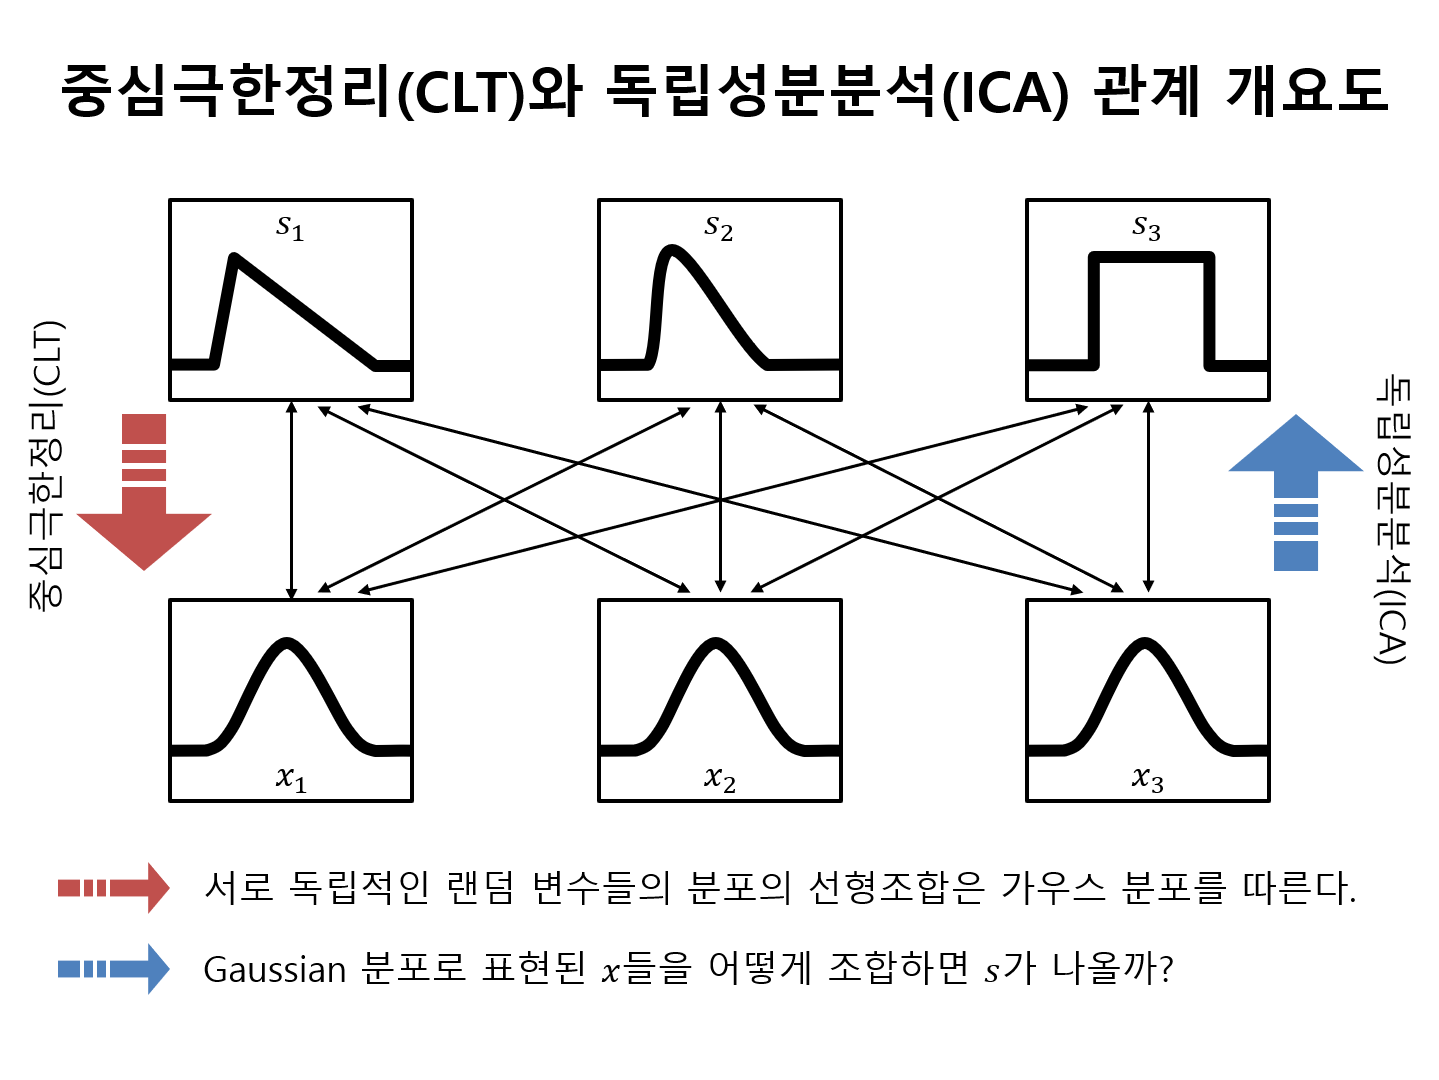
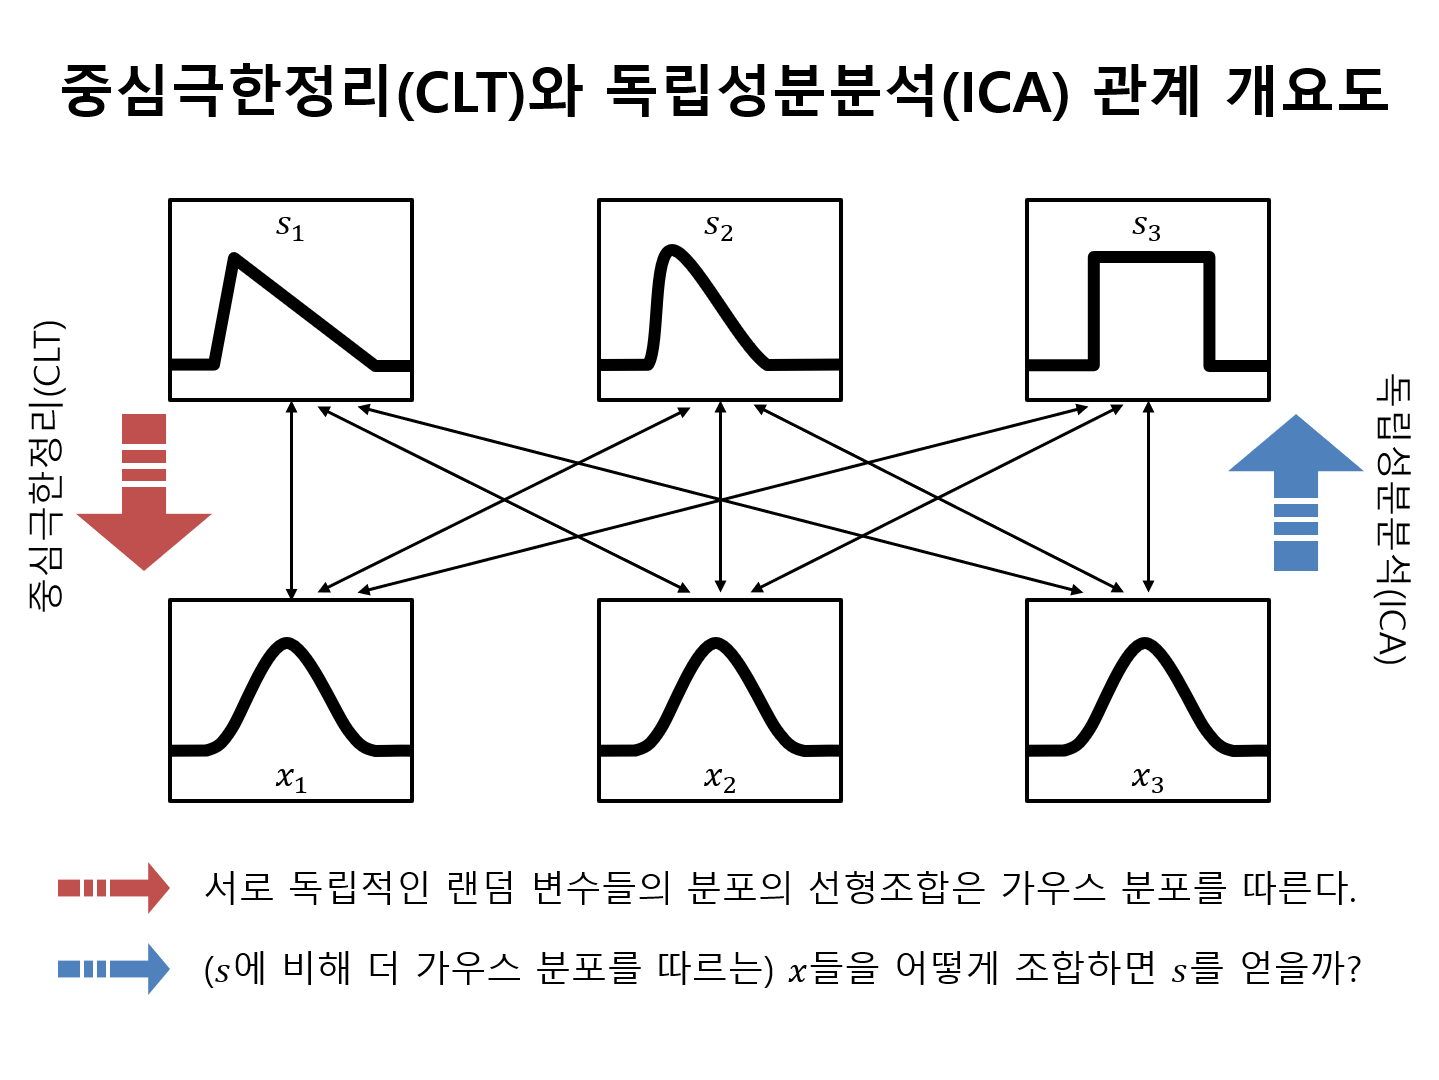
ICA / pics2 재수정

Changed region(s): [[0.1223, 0.8861, 0.9479, 0.9167]]

diff --git a/_posts/2020-07-14-ICA.md b/_posts/2020-07-14-ICA.md
@@ -77,17 +77,12 @@ CLT를 짧게나마 복습해보면, 서로 독립적인 랜덤 변수들의 선
 
 CLT와 ICA를 각각 그림으로 표현하자면 아래와 같다.
 
-// ***************************************************** //
-// "그림 2 넣을 곳"
-// CLT에 관련된 그림.
-// 서로 독립적인 랜덤 변수들의 분포의 선형조합은 가우스 분포를 따른다.
-// ***************************************************** //
+<p align = "center">
+  <img src = "https://raw.githubusercontent.com/angeloyeo/angeloyeo.github.io/master/pics/2020-07-14_ICA/pic2.png">
+  <br>
+  그림 2. 중심극한정리와 독립성분분석의 관계 개요도
+</p>
 
-// ***************************************************** //
-// "그림 3 넣을 곳"
-// ICA에 관련된 그림. 
-// Gaussian 분포로 표현된 x들을 어떻게 조합하면 s가 나올까?
-// ***************************************************** //
 
 즉, ICA를 중심극한정리의 반대 과정으로 생각해본다면 ICA는 독립 랜덤 변수들의 조합으로 얻어진 $x$에 적절한 행렬 $W = A^{-1}$을 곱해
 
